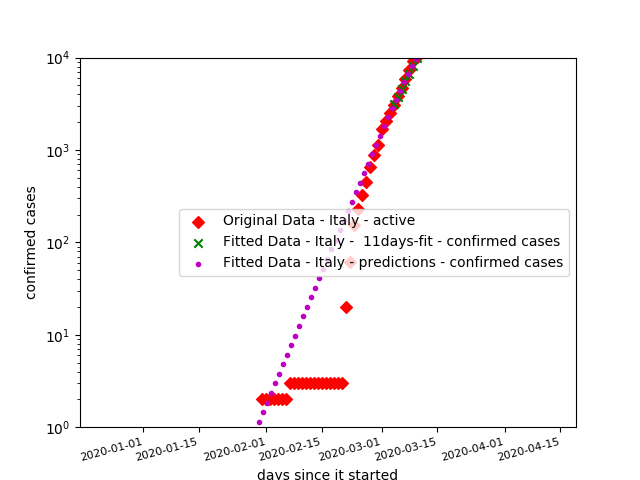
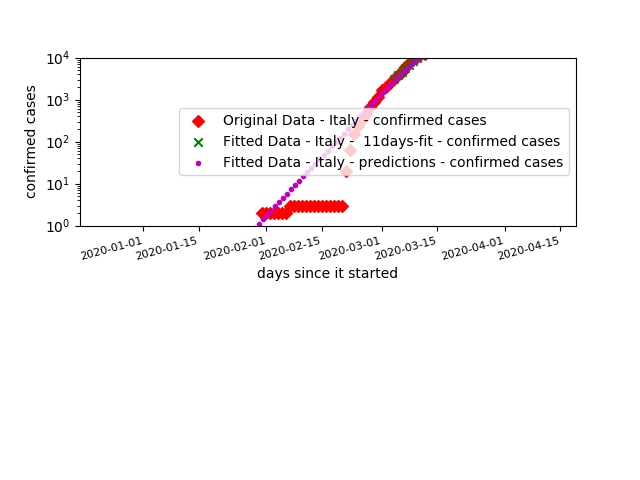
added daily predictions

diff --git a/csse_covid_19_data/csse_covid_19_time_series/dati_mondiali.py b/csse_covid_19_data/csse_covid_19_time_series/dati_mondiali.py
@@ -106,6 +106,36 @@ active_df_reshaped["cases"] = active_cases
 #     if 'Korea' in country.split():
 #         print(country)
 
+def derivative(f,a,method='central',h=0.01):
+    '''Compute the difference formula for f'(a) with step size h.
+
+    Parameters
+    ----------
+    f : function
+        Vectorized function of one variable
+    a : number
+        Compute derivative at x = a
+    method : string
+        Difference formula: 'forward', 'backward' or 'central'
+    h : number
+        Step size in difference formula
+
+    Returns
+    -------
+    float
+        Difference formula:
+            central: f(a+h) - f(a-h))/2h
+            forward: f(a+h) - f(a))/h
+            backward: f(a) - f(a-h))/h
+    '''
+    if method == 'central':
+        return (f(a + h) - f(a - h))/(2*h)
+    elif method == 'forward':
+        return (f(a + h) - f(a))/h
+    elif method == 'backward':
+        return (f(a) - f(a - h))/h
+    else:
+        raise ValueError("Method must be 'central', 'forward' or 'backward'.")
 
 def exp_func(x, a, b):
     return a * np.exp(b * x)
@@ -231,7 +261,7 @@ def plot_data(Xdata, Ydata, country, label, color, logscale=False):
     # first the raw data as a scatter plot
     if logscale:
         plt.yscale("log")
-        # plt.ylim(0, 1e4)
+        plt.ylim(1, 1e4)
     # plt.plot(Xdata, Ydata, 'D', label="Original Data - " + country + ' - ' + label,color=color)
     plt.scatter(
         Xdata,
@@ -246,7 +276,7 @@ def plot_model(xModel, yModel, country, label, color, marker, logscale=False):
 
     if logscale:
         plt.yscale("log")
-        # plt.ylim(0, 1e4)
+        plt.ylim(1, 1e4)
 
     # plt.plot(xModel, yModel, label="Fitted Data - " + country + ' - ' + label, color=color,marker=marker)
     plt.scatter(
@@ -262,13 +292,16 @@ def plot_model(xModel, yModel, country, label, color, marker, logscale=False):
 
 
 def get_times(dataframe, y, prediction_days):
-    x = np.arange(0, len(y))
+
     date = dataframe.index.values
 
     # start = pd.Timestamp(dataframe['Date'].loc[0])
     start = datetime.datetime.strptime(dataframe["Date"].loc[0], "%m/%d/%y").strftime(
         "%d/%m/%y"
     )
+    day_of_the_year_start = int(start[0:2])
+    # x = np.arange(day_of_the_year_start, len(y)+day_of_the_year_start)
+    x = np.arange(0, len(y))
     start = datetime.datetime.strptime(start, "%d/%m/%y")
 
     end = datetime.datetime.strptime(dataframe["Date"].iloc[-1], "%m/%d/%y").strftime(
@@ -355,15 +388,16 @@ def main():
             )
 
             # xModel, yModel, fittedParameters_10, Rsquared = fit_data(x, y, exp_func )
-            xModel, yModel, fittedParameters_10, Rsquared = fit_data(
-                x, y, Hill_sigmoidal_func
-            )
-            # xModel, yModel, fittedParameters_10, Rsquared = fit_data(x, y, sigmoidal_func )
-            xModel_date = xModel.astype(datetime.datetime)
+            # xModel, yModel, fittedParameters_10, Rsquared = fit_data(
+            #     x, y, Hill_sigmoidal_func
+            # )
+            #
+            xModel_fit, yModel_fit, fittedParameters_10, Rsquared = fit_data(x, y, sigmoidal_func )
+            xModel_date = xModel_fit.astype(datetime.datetime)
             plt.figure(num=country + "_justfit")
             plot_model(
                 t_real,
-                yModel,
+                yModel_fit,
                 country,
                 " fit - " + databasename,
                 "g",
@@ -371,7 +405,7 @@ def main():
                 logscale=logscale,
             )
             plot_data(t_real, y, country, "confirmed cases", "r", logscale=logscale)
-            plt.ylim(1, 1e4)
+            # plt.ylim(1, 1e4)
             plt.legend(loc="best", fontsize="10")
             plt.xticks(rotation=15, ha="right")
 
@@ -389,6 +423,8 @@ def main():
                     x[-day_to_use_4_fit:], y[-day_to_use_4_fit:], exp_func1
                 )
             # xModel,yModel,fittedParameters_10,Rsquared = fit_data(x,y,exp_func)
+            ax1 = plt.subplot(211)
+
             plot_data(t_real, y, country, "confirmed cases", "r", logscale=logscale)
             # # if Rsquared > 0.8:
             plot_model(
@@ -406,12 +442,18 @@ def main():
             print("prediction from {} to {}".format(start, prediction))
             #
             fittedParameters_prediction, pcov = curve_fit(
-                sigmoidal_func, x, y, maxfev=5000, p0=[1, 1, -fittedParameters_10[-1]]
+                sigmoidal_func, x, y, maxfev=5000, p0=[1, -fittedParameters_10[-1], 1]
             )
             #
             # print('Parameters:', fittedParameters_prediction)
             #
-            modelPredictions = sigmoidal_func(x, *fittedParameters_prediction)
+            start = datetime.datetime.strptime(dataframe["Date"].loc[0], "%m/%d/%y").strftime(
+                "%d/%m/%y"
+            )
+            day_of_the_year_start = int(start[0:2])
+            x = np.arange(day_of_the_year_start, len(y)+day_of_the_year_start)
+            x_prediction = np.arange(0, len(y)+day_of_the_year_start)
+            modelPredictions = sigmoidal_func(x_prediction, *fittedParameters_prediction)
             #
             absError = modelPredictions[0 : len(y)] - y
             #
@@ -425,6 +467,7 @@ def main():
             print("R-squared:", Rsquared)
             #
             # fittedParameters_prediction = [79100,78.7, 4.63]
+            # fittedParameters_prediction = [fittedParameters_prediction[0],78.7, fittedParameters_prediction[2]]
             xModel_prediction = np.arange(0, days)
             yModel_prediction = sigmoidal_func(
                 xModel_prediction, *fittedParameters_prediction
@@ -456,8 +499,115 @@ def main():
             else:
                 plt.savefig("./Figures/" + country + "_fitted.png", dpi=100)
 
-    #
-    plt.show()
+            daily = np.diff(y)
+            a = 0
+            daily = np.concatenate([[a], daily])
+            # yy = sigmoidal_func(x, *fittedParameters_prediction)
+            a,b,c = fittedParameters_prediction
+            f = lambda x: a / (1 + np.exp(-c * (x - b)))
+            # yy = f(x)
+            ydx = derivative(f,xModel_prediction)
+
+            ax2 = plt.subplot(212, sharex=ax1)
+            # plot_model(
+            #     t_real,
+            #     yModel_fit,
+            #     country,
+            #     " fit - " + databasename,
+            #     "g",
+            #     "x",
+            #     logscale=logscale,
+            # )
+            plot_model(t_prediction,ydx , country,
+                    "daily predictions - " + databasename,
+                    "b",
+                    marker="o",
+                    logscale=logscale)
+            plot_data(t_real, daily, country, "daily confirmed cases", "r", logscale=logscale)
+            # plt.ylim(1, 1e4)
+            plt.legend(loc="best", fontsize="10")
+            plt.xticks(rotation=15, ha="right")
+            plt.show()
+
+        # plt.figure(num='daily-'+country)
+        # xModel, yModel, fittedParameters_10, Rsquared = fit_data(
+        #     x[-day_to_use_4_fit:], daily[-day_to_use_4_fit:], exp_func1
+        # )
+        # # plot_data(t_real, daily, country, "confirmed cases", "r", logscale=logscale)
+        # # # if Rsquared > 0.8:
+        # # plot_model(
+        # #     t_real[-day_to_use_4_fit:],
+        # #     yModel[-day_to_use_4_fit:],
+        # #     country,
+        # #     " 11days-fit - " + databasename,
+        # #     "g",
+        # #     marker="x",
+        # #     logscale=logscale,
+        # # )
+        #
+        # # # else:
+        #
+        # print("prediction from {} to {}".format(start, prediction))
+        # #
+        # fittedParameters_prediction, pcov = curve_fit(
+        #     sigmoidal_func, x, daily, maxfev=5000, p0=[1, -fittedParameters_10[-1], 1]
+        # )
+        # #
+        # # print('Parameters:', fittedParameters_prediction)
+        # #
+        # start = datetime.datetime.strptime(dataframe["Date"].loc[0], "%m/%d/%y").strftime(
+        #     "%d/%m/%y"
+        # )
+        # day_of_the_year_start = int(start[0:2])
+        # x = np.arange(0, len(daily))
+        # # x = np.arange(day_of_the_year_start, len(daily) + day_of_the_year_start)
+        #
+        # modelPredictions = sigmoidal_func(x, *fittedParameters_prediction)
+        # #
+        # absError = modelPredictions[0: len(daily)] - daily
+        # #
+        # SE = np.square(absError)  # squared errors
+        # MSE = np.mean(SE)  # mean squared errors
+        # RMSE = np.sqrt(MSE)  # Root Mean Squared Error, RMSE
+        # Rsquared = 1.0 - (np.var(absError) / np.var(daily))
+        # #
+        # print("Parameters:", fittedParameters_prediction)
+        # print("RMSE:", RMSE)
+        # print("R-squared:", Rsquared)
+        # #
+        # # fittedParameters_prediction = [79100,78.7, 4.63]
+        # # fittedParameters_prediction = [fittedParameters_prediction[0],78.7, fittedParameters_prediction[2]]
+        # xModel_prediction = np.arange(0, days)
+        # yModel_prediction = sigmoidal_func(
+        #     xModel_prediction, *fittedParameters_prediction
+        # )
+        # # yModel_prediction = Hill_sigmoidal_func(xModel_prediction, *fittedParameters_prediction)
+        # # # if Rsquared > 0.5:
+        # # plt.plot(xModel_prediction,yModel_prediction)
+        # # plot_model(xModel_prediction, yModel_prediction, country, 'predictions - '+databasename, 'm',marker='.', logscale=logscale)
+        # plot_model(
+        #     t_prediction,
+        #     yModel_prediction,
+        #     country,
+        #     "predictions - " + databasename,
+        #     "m",
+        #     marker=".",
+        #     logscale=logscale,
+        # )
+        # # plt.ylim(1, 1e4)
+        # plt.xticks(rotation=15, ha="right")
+        # # else:
+        # #     print('Model did not converge')
+        # #
+        # plt.xlabel("days since it started")  # X axis data label
+        # plt.ylabel("Delta confirmed cases")  # Y axis data label
+        # plt.legend(loc="best", fontsize="10")
+        # if logscale:
+        #     plt.savefig("./Figures/" + country + "_fitted_daily_log.png", dpi=100)
+        #     plt.ylim(1, 1e5)
+        # else:
+        #     plt.savefig("./Figures/" + country + "_fitted_daily.png", dpi=100)
+
 
 
 if __name__ == "__main__":
